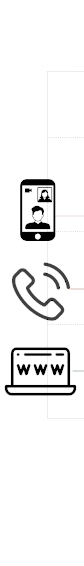
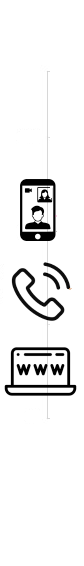
Final optimizations

diff --git a/components/plot.js b/components/plot.js
@@ -6,12 +6,27 @@ import Animated, {
     useAnimatedStyle,
     useSharedValue,
     useAnimatedGestureHandler,
+    withTiming,
+    Easing,
 } from 'react-native-reanimated';
 import { withSafeAreaInsets } from 'react-native-safe-area-context';
 
 
+const plots = [require('../assets/minplot.png'),require('../assets/sizeplot.png')];
+const axs = [require('../assets/minax.png'),require('../assets/sizeax.png')];
 
-export default function Diagram() {
+export default function Diagram( {button} ) {
+    const [axImage, setAxImage] = React.useState(axs[0])
+    const [plotImage, setPlotImage] = React.useState(plots[0])
+
+    if(button === 'Usage' && axImage != axs[0]){
+        setAxImage(axs[0])
+        setPlotImage(plots[0])
+    }else if(button !== 'Usage' && axImage != axs[1]){
+        setAxImage(axs[1])
+        setPlotImage(plots[1])
+    }
+
     const Mask = () => {
         return <View style={styles.mask} />;
     };
@@ -19,19 +34,21 @@ export default function Diagram() {
     const translateXmin = -880;
     const translateXmax = -53;
     const translateX = useSharedValue(translateXmax);
+    const translateScrolling = useSharedValue(0);
 
     const onDrag = useAnimatedGestureHandler({
         onStart: (event, context) => {
             context.translateX = translateX.value;
         },
         onActive: (event, context) => {
-            if(event.translationX + context.translateX > translateXmax){
+            if (event.translationX + context.translateX > translateXmax) {
                 translateX.value = translateXmax;
-            }else if(event.translationX + context.translateX < translateXmin){
+            } else if (event.translationX + context.translateX < translateXmin) {
                 translateX.value = translateXmin;
-            }else{
+            } else {
                 translateX.value = event.translationX + context.translateX;
             }
+            translateScrolling.value = 10*(-translateX.value+translateXmax);
         },
     });
 
@@ -45,66 +62,87 @@ export default function Diagram() {
         };
     });
 
-    const headerimg = require('../assets/header.png');
-    const sizeplot = require('../assets/sizeplot.png');
-    const sizeax = require('../assets/sizeax.png');
+    const scrollStyle = useAnimatedStyle(() => {
+        return {
+          transform: [
+            {
+              translateX: withTiming(translateScrolling.value, {
+                duration: 750,
+              }),
+            },
+          ],
+        };
+      });
+
+    const scrollimg = require('../assets/scroll.png');
     const AnimatedView = Animated.createAnimatedComponent(View);
+    const AnimatedImage = Animated.createAnimatedComponent(Image);
 
     return (
         <View style={styles.diag}>
-            <Image style={styles.axImage} source={sizeax}/>
-        <MaskedView
-            style={styles.maskedView}
-            maskElement={<View style={{
-                // Transparent background because mask is based off alpha channel.
-                backgroundColor: 'transparent',
-                flex: 1,
-                justifyContent: 'center',
-                alignItems: 'center',
-            }}>
-                <Mask />
-            </View>
-            }
-        >
-            <PanGestureHandler onGestureEvent={onDrag}>
-                <AnimatedView style={[containerStyle, styles.plotAnimView]}>
-                    <Image source={sizeplot} style={styles.plotImage}/>
-                </AnimatedView>
-            </PanGestureHandler>
-        </MaskedView>
+                <AnimatedImage style={[scrollStyle, styles.scroll]} source={scrollimg} />
+            <Image style={styles.axImage} source={axImage} />
+            <MaskedView
+                style={styles.maskedView}
+                maskElement={<View style={{
+                    // Transparent background because mask is based off alpha channel.
+                    backgroundColor: 'transparent',
+                    flex: 1,
+                    justifyContent: 'center',
+                    alignItems: 'center',
+                }}>
+                    <Mask />
+                </View>
+                }
+            >
+                <PanGestureHandler onGestureEvent={onDrag}>
+                    <AnimatedView style={[containerStyle, styles.plotAnimView]}>
+                        <Image source={plotImage} style={styles.plotImage} />
+                    </AnimatedView>
+                </PanGestureHandler>
+            </MaskedView>
         </View>
     );
 }
 
 const styles = StyleSheet.create({
-    maskedView:{
+    maskedView: {
         marginLeft: -30,
-        marginTop: -130,
-        flex: 1, 
-        flexDirection: 'row', 
+        marginTop: -90,
+        flex: 1,
+        flexDirection: 'row',
         height: '100%',
+    },
+    scroll: {
+        position: 'absolute',
+        top: 60,
+        right: 30,
+        height: 100,
+        width: 100,
     },
     mask: {
         width: '120%',
         height: 600,
         backgroundColor: "red",
     },
-    diag:{
+    diag: {
+        marginBottom: -155,
         height: 600,
         alignItems: 'center',
         flexDirection: 'row',
         justifyContent: 'center',
     },
-    axImage:{
-        zIndex:1,
-        marginTop:-130,
-        height:600,
+    axImage: {
+        marginLeft: -20,
+        zIndex: 1,
+        marginTop: -90,
+        height: 600,
     },
-    plotAnimView:{
-        height:600,
+    plotAnimView: {
+        height: 600,
     },
-    plotImage:{
-        height:600,
+    plotImage: {
+        height: 600,
     },
 });
 

diff --git a/components/statefulButton.js b/components/statefulButton.js
@@ -1,22 +1,25 @@
 import React from 'react';
-import { StyleSheet, Text, View, ImageBackground } from 'react-native';
+import { StyleSheet, Text, Pressable, ImageBackground } from 'react-native';
 
 const img_sources = [require('../assets/selected.png'), require('../assets/unselected.png')];
 
 export default function StatefulButton({ label, state, setState }) {
-    const selected_img = img_sources[1];
-    const selected_col = '#4A639E';
-    if(state == label){
-        selected_img = img_sources[0]
-        selected_col = '#FFF';
+    const [selectedImg, setSelectedImg] = React.useState(img_sources[1]);
+    const [selectedCol, setSelectedCol] = React.useState('#4A639E');
+    if(state === label && selectedCol != '#FFF'){
+        setSelectedImg(img_sources[0]);
+        setSelectedCol('#FFF');
+    }else if(state !== label && selectedCol == '#FFF'){
+        setSelectedImg(img_sources[1]);
+        setSelectedCol('#4A639E');
     }
     return (
-        <View style={styles.buttonView}>
-            <ImageBackground source={selected_img} style={styles.buttonImg}/>
-            <Text style={[styles.buttonText, {color:selected_col}]}>
+        <Pressable style={styles.buttonView} onPress={() => setState(label)}>
+            <ImageBackground source={selectedImg} style={styles.buttonImg}/>
+            <Text style={[styles.buttonText, {color:selectedCol}]}>
                 {label}
             </Text>
-        </View>
+        </Pressable>
     );
 }
 

diff --git a/components/analScreen.js b/components/analScreen.js
@@ -1,4 +1,5 @@
 import { StyleSheet, SafeAreaView, View } from 'react-native';
+import * as React from 'react';
 import { GestureHandlerRootView, State } from "react-native-gesture-handler";
 
 import ReliabilityCheck from './reliabilitycheck';
@@ -7,15 +8,16 @@ import Diagram from './plot';
 
 // Will later show the connection analysis of a route
 export default function AnalysisScreen({ navigation, route }) {
+    const [buttonState, setButtonState] = React.useState('Usage')
     return (
         <GestureHandlerRootView style={styles.container}>
         <SafeAreaView style={styles.container}>
             <View style={styles.container}>
                 <ReliabilityCheck/>
-                <Diagram/>
+                <Diagram button={buttonState}/>
                 <View style={styles.buttonRow}>
-                    <StatefulButton label='Usage'/>
-                    <StatefulButton label='Download'/>
+                    <StatefulButton label='Usage' state={buttonState} setState={setButtonState}/>
+                    <StatefulButton label='Download' state={buttonState} setState={setButtonState}/>
                 </View>
             </View>
         </SafeAreaView>

diff --git a/components/analButton.js b/components/analButton.js
@@ -3,7 +3,7 @@ import { StyleSheet, Pressable, Text, View } from 'react-native';
 import checkRoute from '../data/checkRoute';
 
 // Main Button that switches to analysis
-export default function AnalButton({ startPoint, endPoint, placeholder, navigation }) {
+export default function AnalButton({ startPoint, setStartPoint, endPoint, setEndPoint, placeholder, navigation }) {
     const [problemMsg, setProblemMsg] = React.useState('');
 
     // If the input is correct, switch to analysis screen, otherwise show problem

diff --git a/components/dropdown.js b/components/dropdown.js
@@ -5,7 +5,7 @@ export default function Dropdown({items, state, placeholder, setState}) {
     const items_with_default = items//.concat([state.toString()])
     return (
         <SearchableDropdown
-            onTextChange={text => undefined}
+            onTextChange={text => setState(placeholder)}
             onItemSelect={item => setState(item.name)}
             containerStyle={{ 
                 padding: 5,

diff --git a/components/homeScreen.js b/components/homeScreen.js
@@ -1,6 +1,6 @@
 import * as React from 'react';
 
-import { SafeAreaView, StyleSheet, Button, Text, View } from 'react-native';
+import { SafeAreaView, StyleSheet, Button, Text, View, StatusBar, StatusBarBackground } from 'react-native';
 import { NavigationContainer } from '@react-navigation/native';
 import { createNativeStackNavigator } from '@react-navigation/native-stack';
 

diff --git a/components/reliabilitycheck.js b/components/reliabilitycheck.js
@@ -15,7 +15,7 @@ export default function ReliabilityCheck() {
 
 const styles = StyleSheet.create({
     relView: {
-        marginTop: -15,
+        paddingTop: 10,
         alignItems: 'center',
         flexDirection: 'row',
         justifyContent: 'center',
